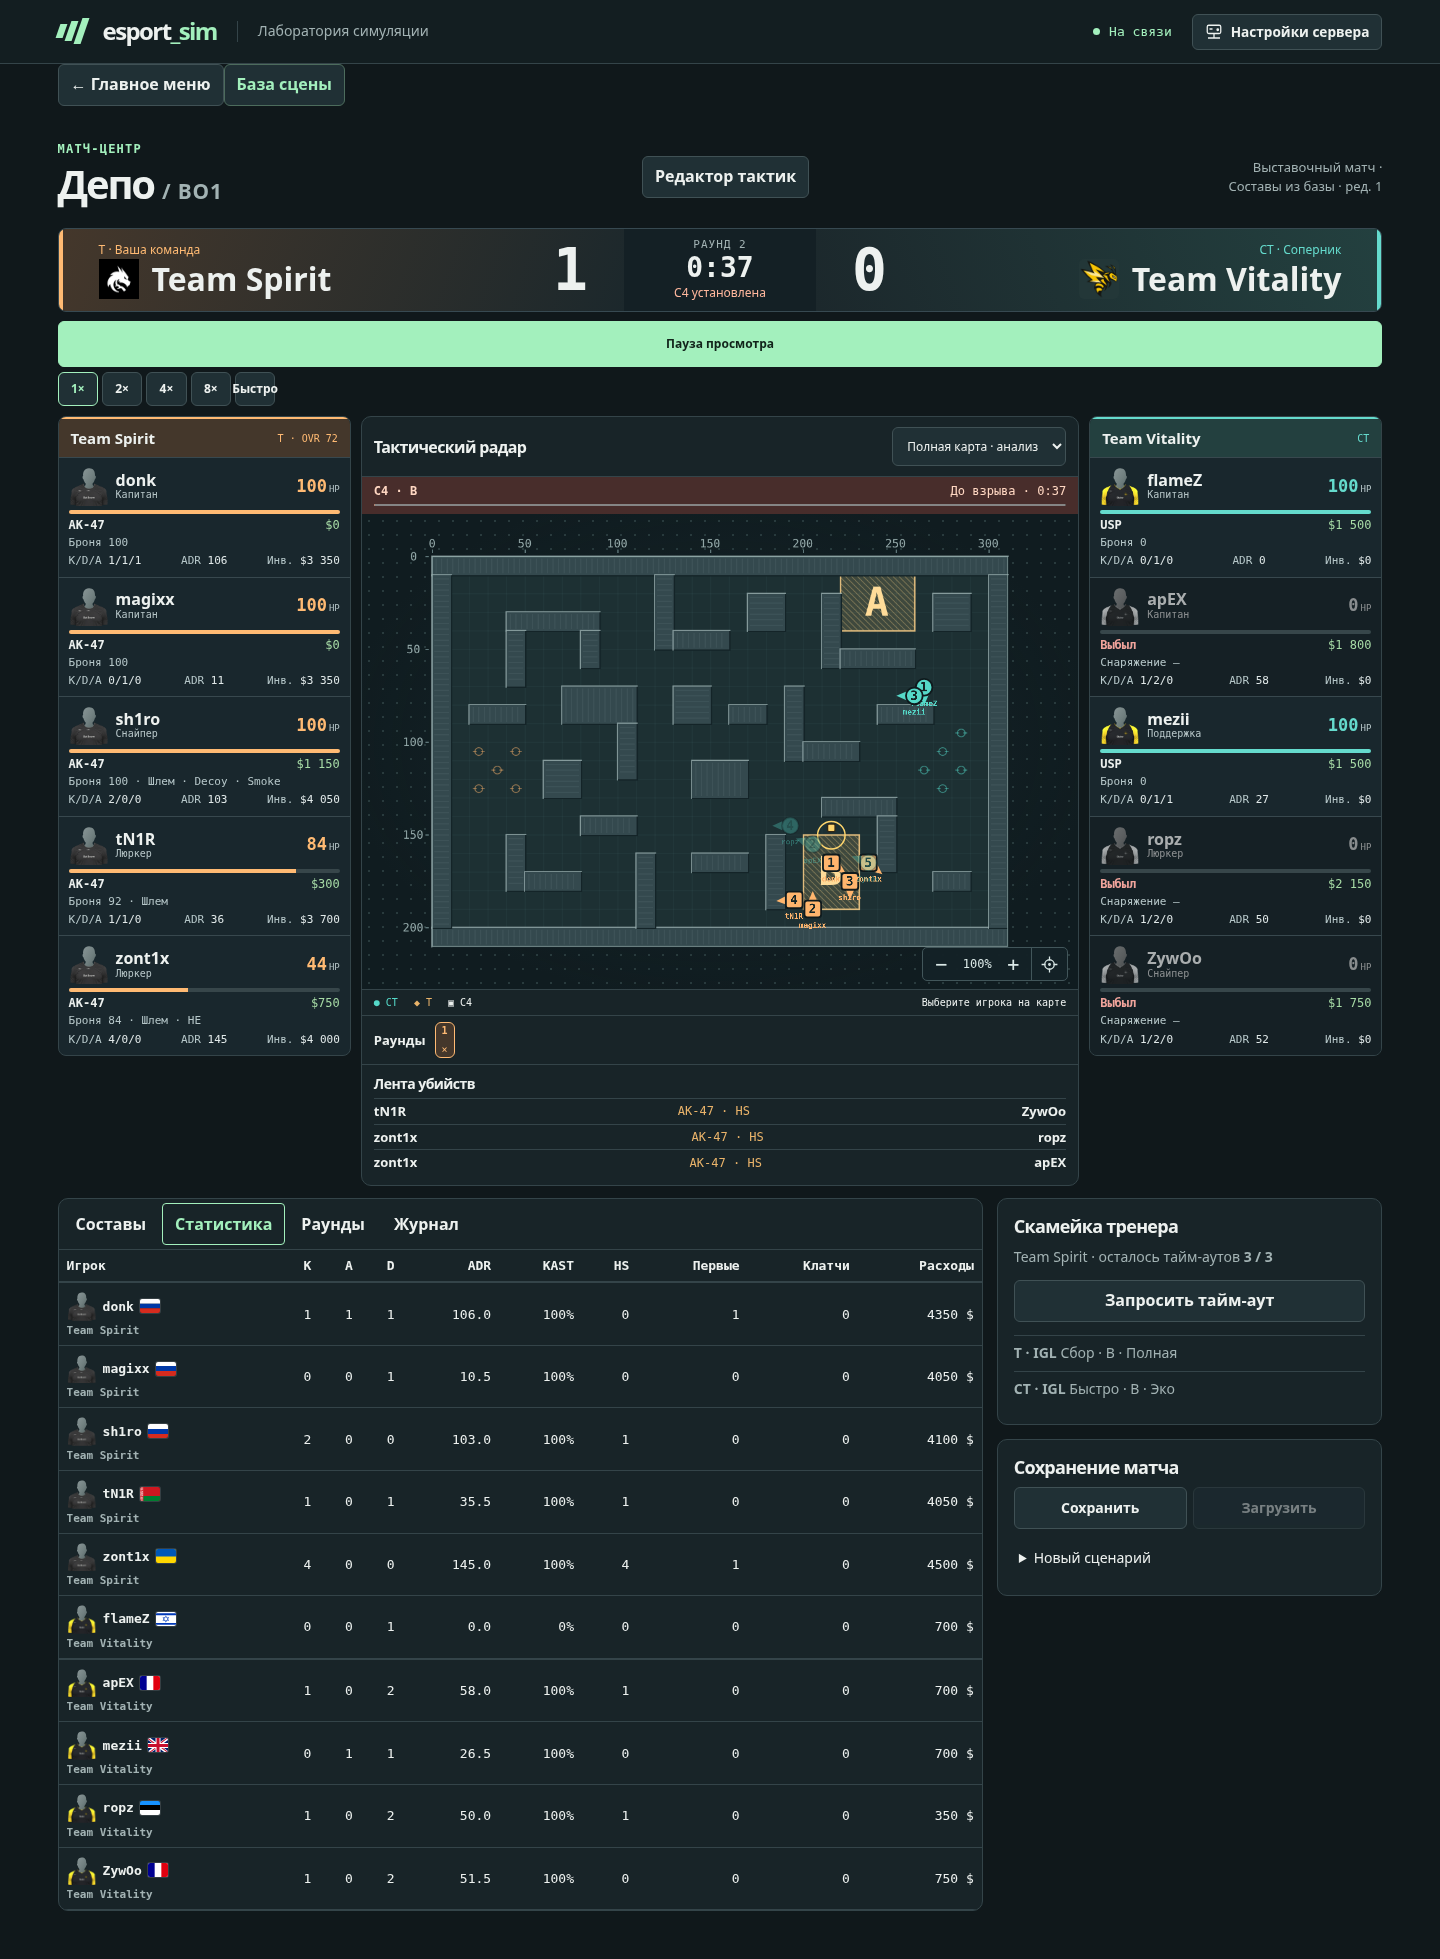
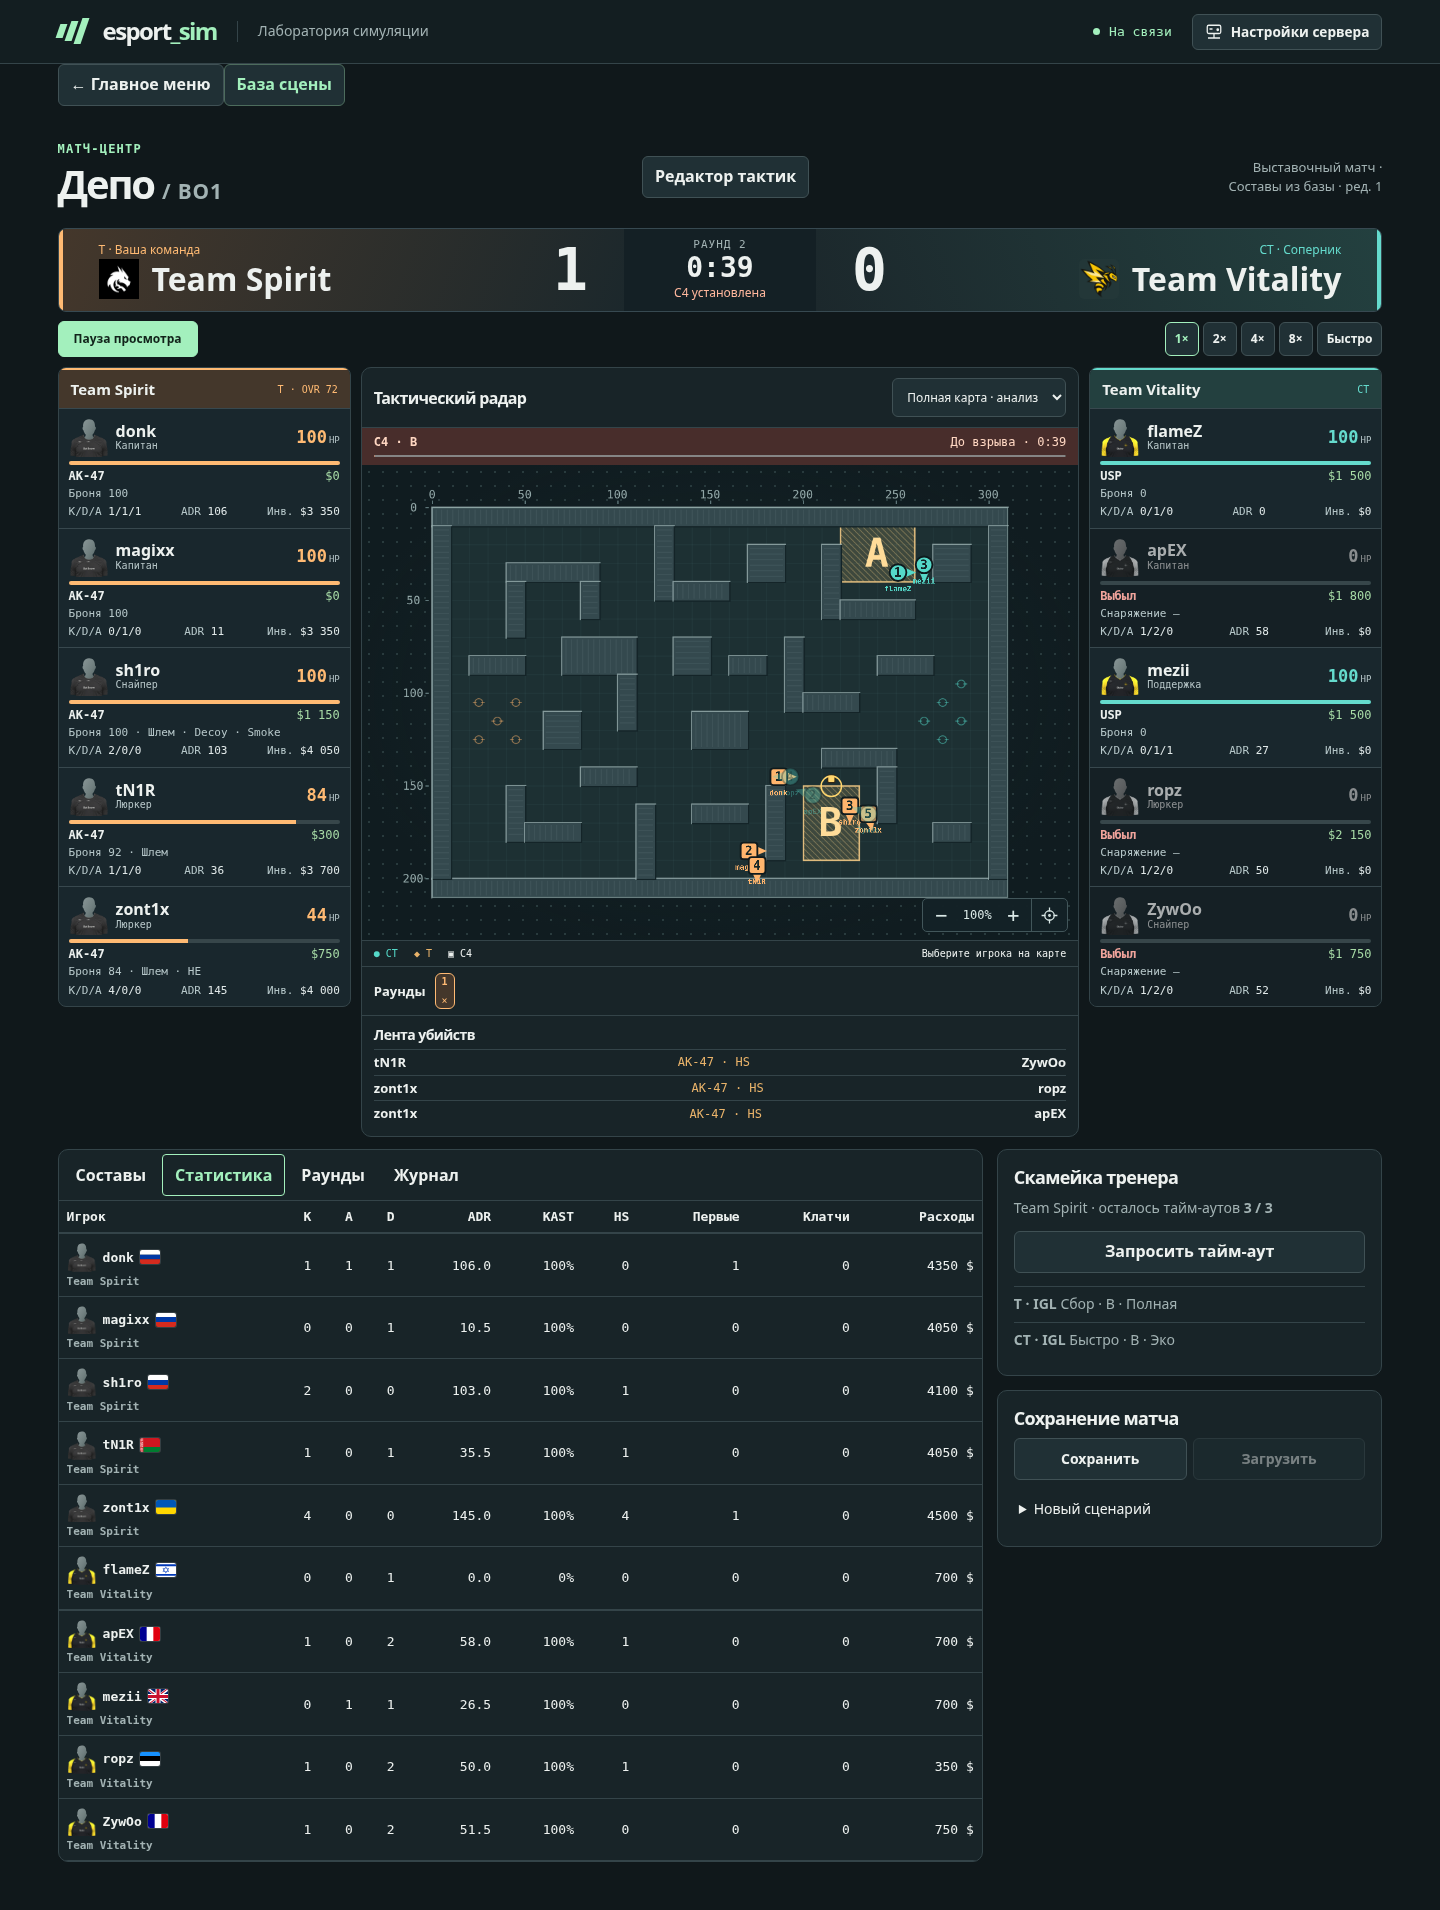
Проверить табло после смены сторон и показать живые кадры Scorebot

diff --git a/frontend/e2e/scorebot.spec.ts b/frontend/e2e/scorebot.spec.ts
@@ -49,11 +49,9 @@ test("Scorebot показывает установленную C4, обе пят
   const planted = await (await page.request.get("/api/state")).json();
   expect(planted.running).toBe(true);
   for (const club of planted.world.match.clubs) {
-    const team = page
-      .locator(".hud-team")
-      .filter({
-        has: page.getByRole("heading", { name: new RegExp(club.name) }),
-      });
+    const team = page.locator(".hud-team").filter({
+      has: page.getByRole("heading", { name: new RegExp(club.name) }),
+    });
     await expect(team.getByRole("meter")).toHaveCount(5);
     await expect(team).toHaveAttribute("data-side", club.side);
     await expect(
@@ -75,5 +73,29 @@ test("Scorebot показывает установленную C4, обе пят
   await expect(page.locator('.hud-team[data-side="CT"] .hud-kit')).toHaveText(
     Array(5).fill("Снаряжение —"),
   );
+  await page.getByLabel("Режим обзора").selectOption("full");
+  await command("speed", 128);
+  await command("start");
+  const firstAttack = planted.world.match.clubs.find(
+    (c: { side: string }) => c.side === "T",
+  );
+  await expect(
+    page.locator('.scoreboard [data-team="' + firstAttack.id + '"]'),
+  ).toHaveAttribute("data-side", "CT");
+  await expect(page.locator(".match-result")).toBeVisible({ timeout: 30000 });
+  const final = (await (await page.request.get("/api/state")).json()).world
+    .match;
+  const winner = final.clubs.find(
+    (club: { id: string }) => club.id === final.winnerTeamId,
+  );
+  await expect(page.locator(".match-result strong")).toHaveText(winner.name);
+  for (const club of final.clubs) {
+    const wins = final.history.filter(
+      (r: { winnerTeamId: string }) => r.winnerTeamId === club.id,
+    ).length;
+    await expect(
+      page.locator('.scoreboard [data-team="' + club.id + '"] > b'),
+    ).toHaveText(String(wins));
+  }
   await command("reset", 42);
 });

diff --git a/frontend/src/match.css b/frontend/src/match.css
@@ -787,6 +787,11 @@ th small {
   gap: 5px 12px;
   margin: -5px 0 10px;
 }
+.hud-controls > .primary {
+  width: auto;
+  height: 36px;
+  padding-inline: 15px;
+}
 .hud-controls .speed-list {
   margin: 0;
 }
@@ -795,6 +800,7 @@ th small {
   font-size: 12px;
 }
 .hud-controls .speed-list button {
+  flex: 0 0 auto;
   min-width: 34px;
   padding: 5px 9px;
 }
